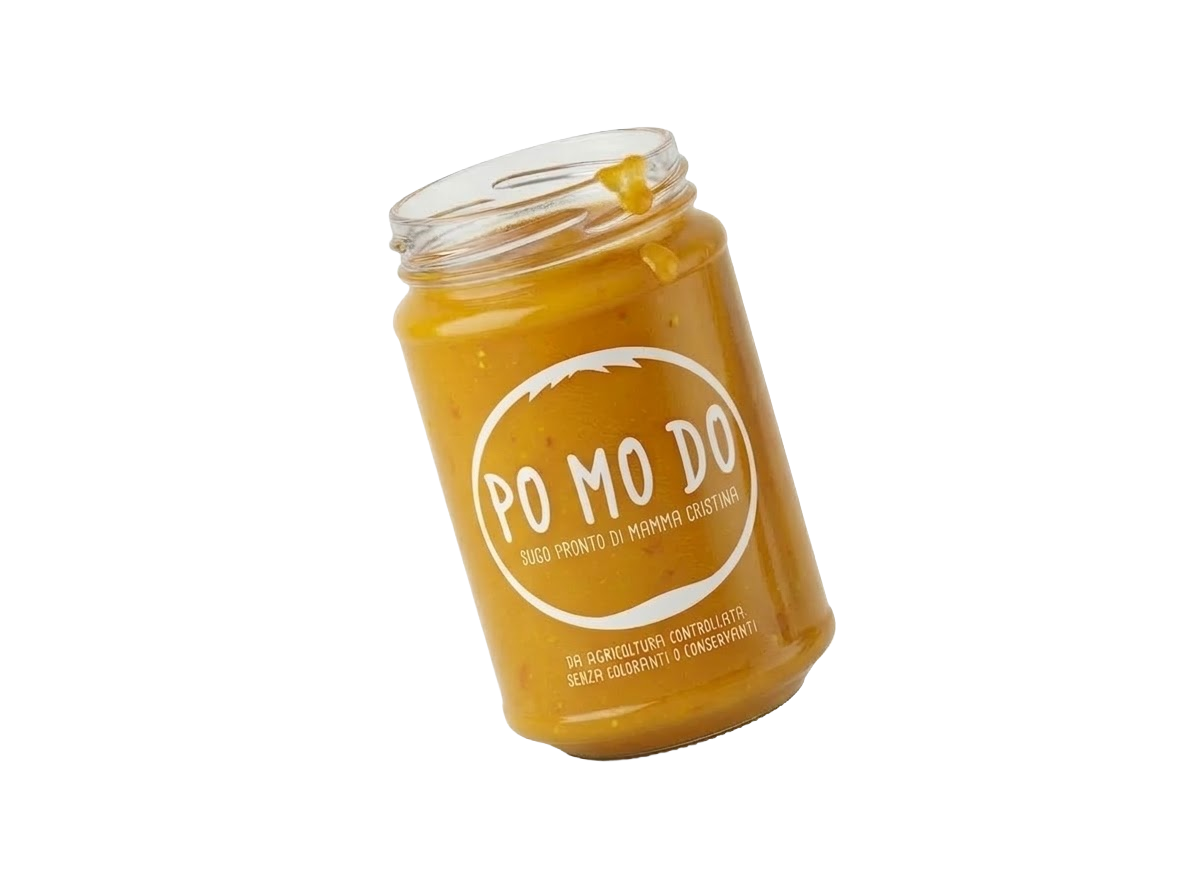
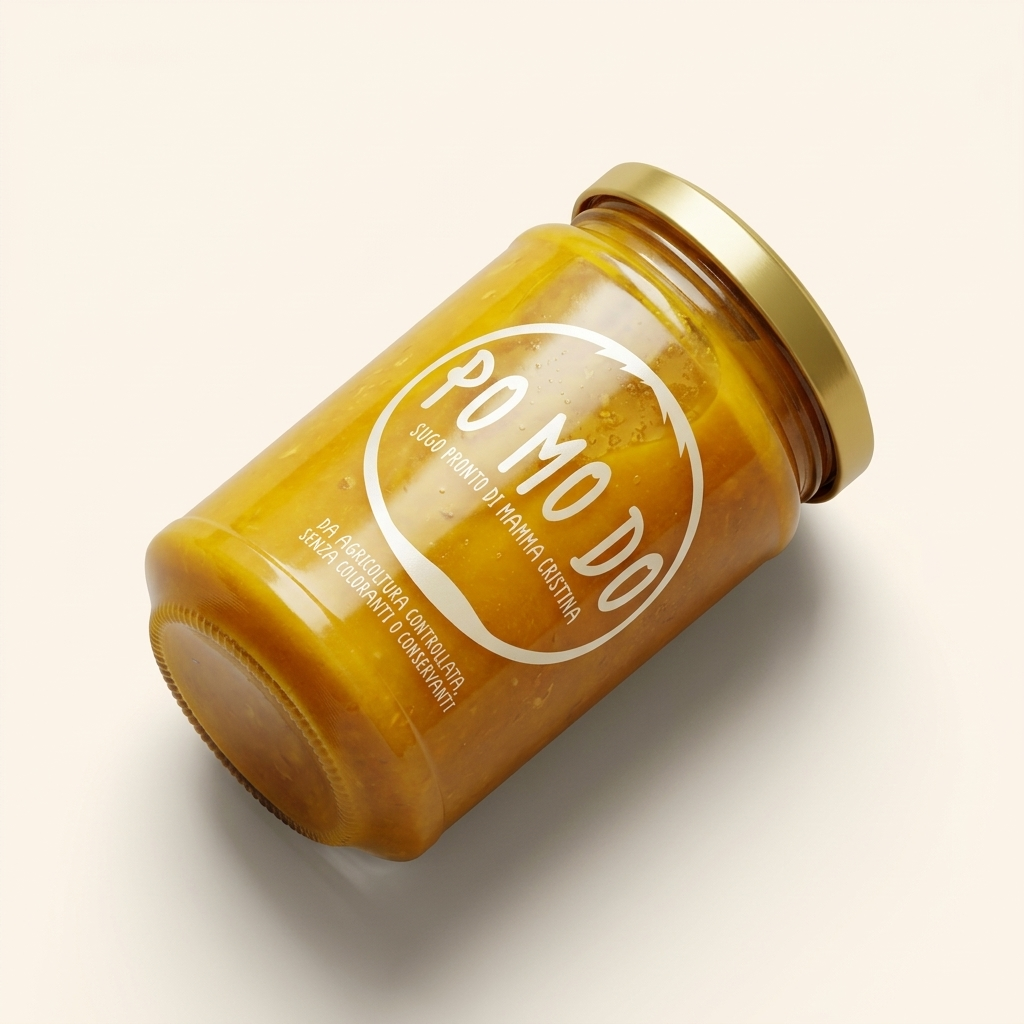
Add files via upload

diff --git a/index.html b/index.html
@@ -14,6 +14,7 @@
         rel="stylesheet">
 
     <link rel="stylesheet" href="style.css">
+    <link rel="icon" type="image/png" href="fav_icon.png">
 </head>
 
 <body class="bg-red">
@@ -32,11 +33,11 @@
         <!-- Links -->
         <div class="nav-links hidden-mobile flex gap-md align-center font-display text-nav tracking-wider"
             style="margin-left: auto;">
-            <a href="#prodotti"
-                class="text-white hover-yellow text-decoration-none transition-color uppercase">Prodotti</a>
             <a href="#chi-siamo" class="text-white hover-yellow text-decoration-none transition-color uppercase">Chi
                 Siamo</a>
-            <a href="#ordina" class="text-white hover-yellow text-decoration-none transition-color uppercase">Ordina
+            <a href="#ingredienti" class="text-white hover-yellow text-decoration-none transition-color uppercase">Ingredienti</a>
+            <a href="#prodotti" class="text-white hover-yellow text-decoration-none transition-color uppercase">Prodotti</a>
+            <a href="#ordina" class="text-yellow hover-yellow text-decoration-none transition-color uppercase">Ordina
                 Ora</a>
         </div>
     </nav>
@@ -61,7 +62,7 @@
                         Pomodori suoi. Ricetta sua. Niente da aggiungere — forse solo un filo d'olio.
                     </p>
                     <div class="mt-lg animate-fade-in delay-3">
-                        <a href="#prodotti" class="btn btn-dark-red uppercase tracking-wider">ORDINALO</a>
+                        <a href="#prodotti" class="btn btn-dark-red uppercase tracking-wider">PROVALO</a>
                     </div>
                 </div>
             </div>
@@ -101,8 +102,8 @@
                     Non è un posto che conosci. È il posto da cui viene il sapore che ricorderai. Coltivato, lavorato,
                     messo in barattolo. In giornata. Basta così.
                 </p>
-                <a href="#ordina"
-                    class="btn btn-red mt-lg uppercase inline-block font-display tracking-wider">ORDINALO</a>
+                <a href="https://www.instagram.com/po_mo_do/"
+                    class="btn btn-red mt-lg uppercase inline-block font-display tracking-wider" target="_blank">SEGUICI</a>
             </div>
 
             <!-- Right: Polaroid Frame -->
@@ -115,7 +116,7 @@
     </section>
 
     <!-- Ingredienti — 2 Columns + Shared Row -->
-    <section class="ingredients-section bg-cream relative py-xxl snap-observe" style="overflow: hidden;">
+    <section id="ingredienti" class="ingredients-section bg-cream relative py-xxl snap-observe" style="overflow: hidden;">
         <!-- New Background Pattern -->
         <div class="bg-pattern-tomato"></div>
 
@@ -155,7 +156,7 @@
             </div>
 
             <!-- Bottom Shared Row -->
-            <div class="mt-md pt-md border-bottom-red" style="border-top: 1px solid rgba(200, 49, 42, 0.1);">
+            <div class="mt-md pt-md" style="border-top: 1px solid rgba(200, 49, 42, 0.1);">
                 <h4 class="font-display text-red text-center uppercase tracking-wider mb-md"
                     style="font-size: 1.5rem; opacity: 0.6;">In entrambi:</h4>
                 <div class="flex flex-wrap" style="justify-content: space-evenly; align-items: flex-start; gap: 2rem;">
@@ -193,7 +194,7 @@
 
         <div class="container relative z-10">
             <!-- Scale-contrast title -->
-            <div class="mb-xl snap-item-up">
+            <div class="mb-md snap-item-up">
                 <p class="font-display text-yellow tracking-wider uppercase mb-xs"
                     style="font-size: 1rem; opacity: 1; letter-spacing: 5px;">Come si usa →</p>
                 <h2 class="font-display text-white line-height-solid uppercase">
@@ -204,30 +205,31 @@
 
             <div class="steps-row flex justify-between">
                 <div class="step-item snap-item-up">
-                    <span class="step-number-decor">01</span>
-                    <p class="font-display text-white uppercase mb-xs" style="font-size: 1.6rem;">Apri</p>
-                    <p class="font-serif text-white text-body" style="opacity: 0.75;">Svita. Annusa. Già qui capisci.
+                    <img src="icon_apri.png" alt="Apri" class="step-icon">
+                    <p class="font-display text-white uppercase mb-xs" style="font-size: 1.6rem;">
+                        <span class="text-yellow" style="font-size: 2.2rem; margin-right: 0.2rem;">1.</span> Apri
                     </p>
                 </div>
                 <div class="step-connector">→</div>
                 <div class="step-item snap-item-up delay-1">
-                    <span class="step-number-decor">02</span>
-                    <p class="font-display text-white uppercase mb-xs" style="font-size: 1.6rem;">Scalda</p>
-                    <p class="font-serif text-white text-body" style="opacity: 0.75;">Pentolino, fuoco basso, pochi
-                        minuti.</p>
+                    <img src="icon_scalda.png" alt="Scalda" class="step-icon">
+                    <p class="font-display text-white uppercase mb-xs" style="font-size: 1.6rem;">
+                        <span class="text-yellow" style="font-size: 2.2rem; margin-right: 0.2rem;">2.</span> Scalda
+                    </p>
                 </div>
                 <div class="step-connector">→</div>
                 <div class="step-item snap-item-up delay-2">
-                    <span class="step-number-decor">03</span>
-                    <p class="font-display text-white uppercase mb-xs" style="font-size: 1.6rem;">Cucina</p>
-                    <p class="font-serif text-white text-body" style="opacity: 0.75;">Pasta, bruschetta, pizza. O il
-                        pane per la scarpetta.</p>
+                    <img src="icon_condisci.png" alt="Condisci" class="step-icon">
+                    <p class="font-display text-white uppercase mb-xs" style="font-size: 1.6rem;">
+                        <span class="text-yellow" style="font-size: 2.2rem; margin-right: 0.2rem;">3.</span> Condisci
+                    </p>
                 </div>
                 <div class="step-connector">→</div>
                 <div class="step-item snap-item-up delay-3">
-                    <span class="step-number-decor">04</span>
-                    <p class="font-display text-white uppercase mb-xs" style="font-size: 1.6rem;">Gusta</p>
-                    <p class="font-serif text-white text-body" style="opacity: 0.75;">Ecco fatto. Era questo.</p>
+                    <img src="icon_gusta.png" alt="Gusta" class="step-icon">
+                    <p class="font-display text-white uppercase mb-xs" style="font-size: 1.6rem;">
+                        <span class="text-yellow" style="font-size: 2.2rem; margin-right: 0.2rem;">4.</span> Gusta
+                    </p>
                 </div>
             </div>
         </div>
@@ -254,31 +256,30 @@
             <!-- Products: Symmetric 50/50 Grid -->
             <div class="product-grid-symmetric mx-auto">
                 <!-- Datterino Giallo -->
-                <div class="product-float-wrap snap-item-up delay-1">
-                    <img src="giallo.png" alt="Datterino Giallo" class="product-float-img">
-                    <div class="product-card-float" style="background: var(--yellow);">
-                        <h3 class="font-serif text-dark text-large font-bold">Datterino Giallo</h3>
+                <div class="product-flat-wrap snap-item-up delay-1">
+                    <img src="giallo.png" alt="Datterino Giallo" class="product-img-flat">
+                    <div class="product-card-flat" style="background: var(--yellow);">
+                        <h3 class="font-serif text-dark font-bold" style="font-size: 2rem;">Datterino Giallo</h3>
                         <p class="product-description font-serif text-dark">Mamma Cristina lo fa giallo. Voi fatevi una
                             domanda.</p>
-                        <p class="product-formats font-display text-dark text-body tracking-wider opacity-70 uppercase">
-                            Formati: 200g / 300g</p>
-                        <p class="product-price font-serif text-red text-body font-bold">a partire da € 8,50</p>
-                        <a href="https://wa.me/..." target="_blank" class="btn btn-whatsapp-brand">ORDINALO</a>
+                        <p class="product-formats font-display text-dark text-body tracking-wider uppercase font-bold">
+                            FORMATI: 200G / 300G</p>
+                        <p class="product-price font-serif text-dark text-body font-bold" style="margin-bottom: 2rem;">a partire da € 8,50</p>
+                        <a href="https://wa.me/[phone redacted]" target="_blank" class="btn btn-whatsapp-brand" style="background-color: #178e47; color: white;">ORDINALO</a>
                     </div>
                 </div>
 
                 <!-- Sugo Rosso -->
-                <div class="product-float-wrap snap-item-up delay-2">
-                    <img src="Rosso.png" alt="Sugo Rosso" class="product-float-img">
-                    <div class="product-card-float" style="background: var(--red);">
-                        <h3 class="font-serif text-white text-large font-bold">Sugo Rosso</h3>
+                <div class="product-flat-wrap snap-item-up delay-2">
+                    <img src="rosso.png" alt="Sugo Rosso" class="product-img-flat">
+                    <div class="product-card-flat" style="background: var(--red);">
+                        <h3 class="font-serif text-white font-bold" style="font-size: 2rem;">Sugo Rosso</h3>
                         <p class="product-description font-serif text-white">Quello classico. Quello per cui si fa la
                             scarpetta.</p>
-                        <p
-                            class="product-formats font-display text-white text-body tracking-wider opacity-70 uppercase">
-                            Formati: 200g / 300g</p>
-                        <p class="product-price font-serif text-yellow text-body font-bold">a partire da € 8,50</p>
-                        <a href="https://wa.me/..." target="_blank" class="btn btn-whatsapp-brand">ORDINALO</a>
+                        <p class="product-formats font-display text-white text-body tracking-wider uppercase font-bold">
+                            FORMATI: 200G / 300G</p>
+                        <p class="product-price font-serif text-white text-body font-bold" style="margin-bottom: 2rem;">a partire da € 8,50</p>
+                        <a href="https://wa.me/[phone redacted]" target="_blank" class="btn btn-whatsapp-brand" style="background-color: #178e47; color: white;">ORDINALO</a>
                     </div>
                 </div>
             </div>
@@ -293,12 +294,12 @@
             <h2 class="font-display text-white text-section uppercase mb-lg text-center snap-item-up">LE <span
                     class="text-yellow">PROMOZIONI</span></h2>
 
-            <div class="grid-1 gap-lg max-w-lg mx-auto flex flex-col">
+            <div class="grid-1 gap-md max-w-lg mx-auto flex flex-col">
                 <!-- Welcome Pack -->
                 <div
                     class="promo-card bg-cream border-red-thick p-lg relative snap-item-up delay-1 drop-shadow-solid flex align-center gap-lg justify-between flex-wrap">
                     <div class="flex-shrink-0 mx-auto">
-                        <img src="welcome_pack.png"
+                        <img src="Pack_di_Benvenuto.png"
                             onerror="this.src='https://via.placeholder.com/250x150/E6392F/FFF?text=WELCOME+PACK'"
                             alt="Welcome Pack" class="drop-shadow-xl"
                             style="height: 150px; width: auto; object-fit: contain;">
@@ -312,14 +313,9 @@
                     <div
                         class="promo-action text-center flex-shrink-0 flex flex-col align-center justify-center mx-auto">
                         <span class="font-serif text-dark text-large mb-sm block font-bold">€ 25,00</span>
-                        <a href="https://wa.me/..." target="_blank" class="btn btn-whatsapp">ORDINALO</a>
+                        <a href="https://wa.me/[phone redacted]" target="_blank" class="btn btn-whatsapp">ORDINALO</a>
                     </div>
                 </div>
-
-                <!-- Dispensa -->
-                <h4
-                    class="font-display text-white text-center text-body tracking-wider mt-xl mb-md uppercase opacity-70">
-                    LA DISPENSA</h4>
 
                 <!-- Cartone -->
                 <div
@@ -339,7 +335,7 @@
                     <div
                         class="promo-action text-center flex-shrink-0 flex flex-col align-center justify-center mx-auto">
                         <span class="font-serif text-dark text-large mb-sm block font-bold">€ 159,00</span>
-                        <a href="https://wa.me/..." target="_blank" class="btn btn-whatsapp">ORDINALO</a>
+                        <a href="https://wa.me/[phone redacted]" target="_blank" class="btn btn-whatsapp">ORDINALO</a>
                     </div>
                 </div>
             </div>

diff --git a/style.css b/style.css
@@ -1043,15 +1043,17 @@ body {
     padding: 0 1rem;
 }
 
-.step-number-decor {
-    font-family: 'Bebas Neue', sans-serif;
-    font-size: clamp(4rem, 8vw, 7rem);
-    color: var(--red);
-    opacity: 0.3;
-    line-height: 1;
-    margin-bottom: -1rem;
+.step-icon {
+    height: 240px;
+    width: auto;
+    object-fit: contain;
+    margin: 0 auto 0.5rem;
     display: block;
+    position: relative;
+    z-index: 10;
 }
+
+
 
 .step-connector {
     flex-shrink: 0;
@@ -1074,12 +1076,9 @@ body {
     display: grid;
     grid-template-columns: 1fr 1fr;
     gap: 4.5rem;
-    /* Even more horizontal space for "respiro" */
     align-items: stretch;
     padding-top: 20px;
-    /* Minimal padding for ultra-tight layout */
     max-width: 1200px;
-    /* Increased to fit the 533px jars + gap without overflow */
     margin: 0 auto;
     width: 100%;
 }
@@ -1145,7 +1144,7 @@ body {
 }
 
 .product-card-float .product-price {
-    margin-bottom: 2rem;product-card
+    margin-bottom: 2rem;
     min-height: 1.5rem;
     display: flex;
     align-items: center;
@@ -1208,4 +1207,69 @@ body {
         grid-template-columns: 1fr;
         gap: 6rem;
     }
+}
+
+/* Flat Product Card UI */
+.product-flat-wrap {
+    display: flex;
+    flex-direction: column;
+    align-items: center;
+    height: 100%;
+    border-radius: 12px;
+    overflow: hidden;
+    box-shadow: 0 10px 40px rgba(0, 0, 0, 0.12);
+}
+
+.product-img-flat {
+    width: 100%;
+    height: auto;
+    display: block;
+    margin: 0;
+    padding: 0;
+}
+
+.product-card-flat {
+    flex: 1;
+    display: flex;
+    flex-direction: column;
+    padding: 2rem;
+    width: 100%;
+    text-align: center;
+}
+
+.product-card-flat h3 {
+    margin-top: 0;
+    margin-bottom: 0.5rem;
+    line-height: 1.2;
+    font-size: 2rem;
+}
+
+.product-card-flat .btn-whatsapp-brand {
+    margin-top: auto;
+    width: 100%;
+    height: 54px;
+    display: flex;
+    align-items: center;
+    justify-content: center;
+    border-radius: 54px;
+    font-weight: bold;
+    font-size: 1.1rem;
+    letter-spacing: 1px;
+}
+
+/* 16:11 Section Util */
+.section-16-11 {
+    aspect-ratio: 16 / 11;
+    max-height: 100vh;
+    display: flex;
+    flex-direction: column;
+    justify-content: center;
+    padding: 4rem 0; /* increased padding for more breathing room */
+    width: 100%;
+    margin: 0 auto;
+    box-sizing: border-box;
+}
+
+.h-full {
+    height: 100%;
 }